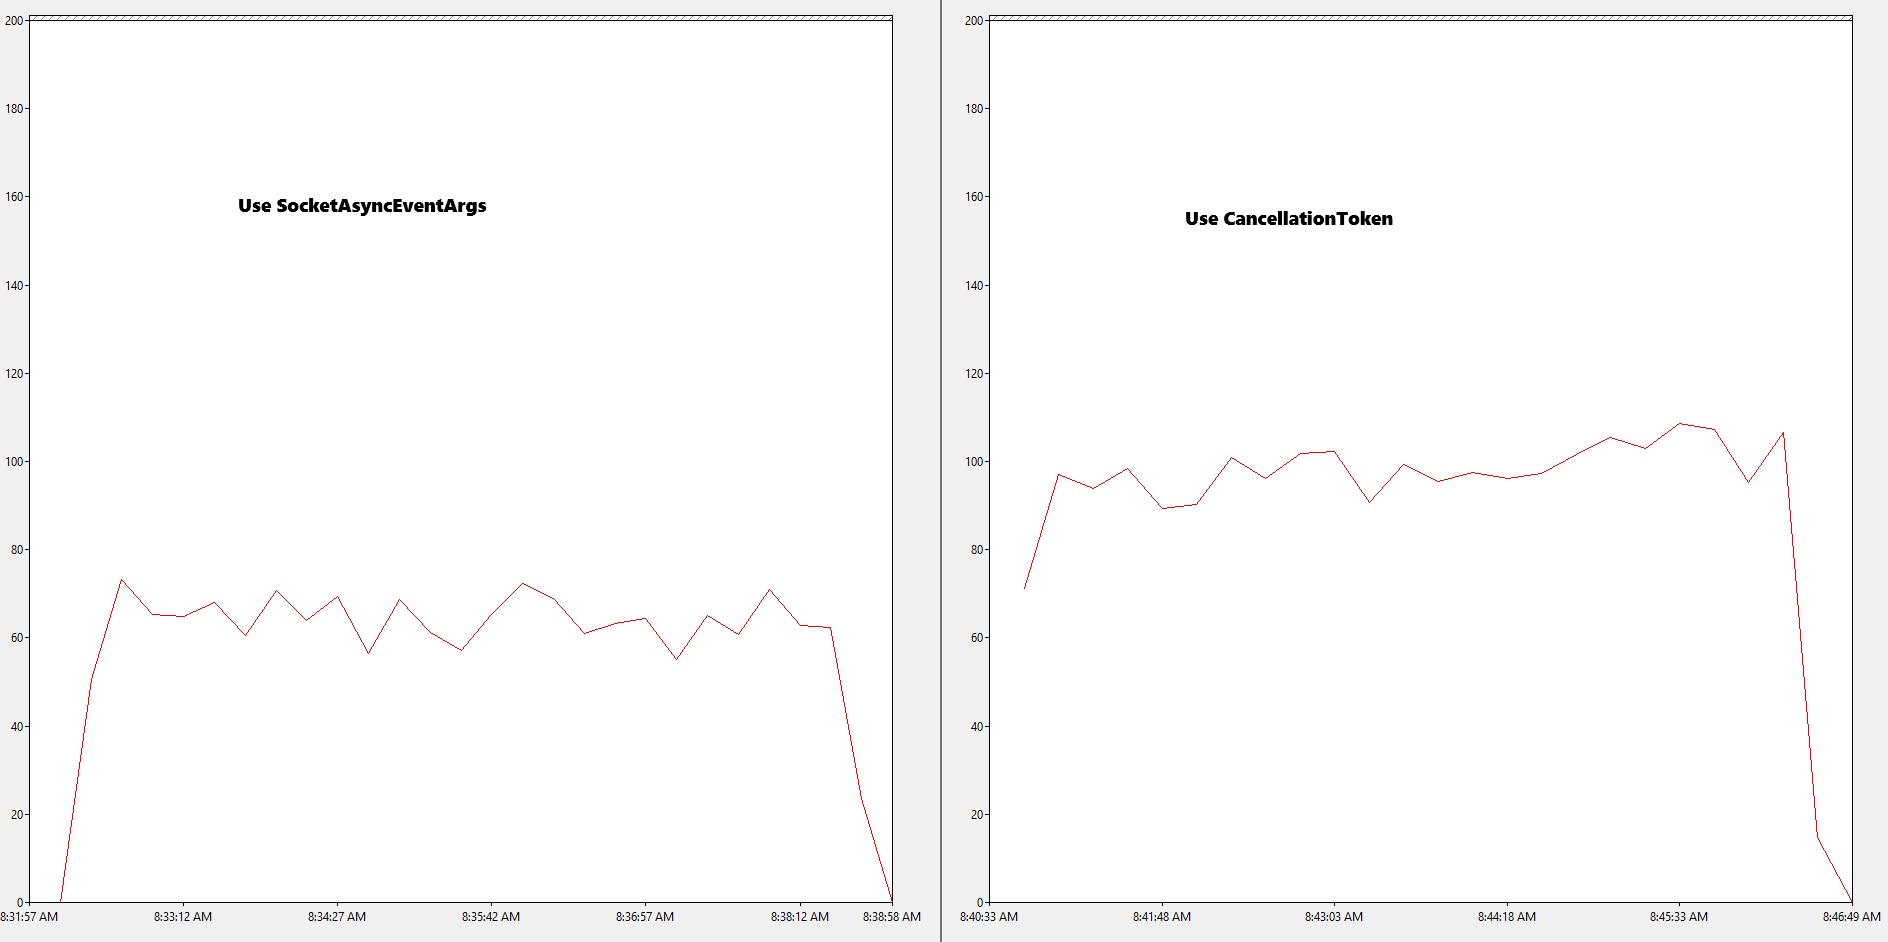
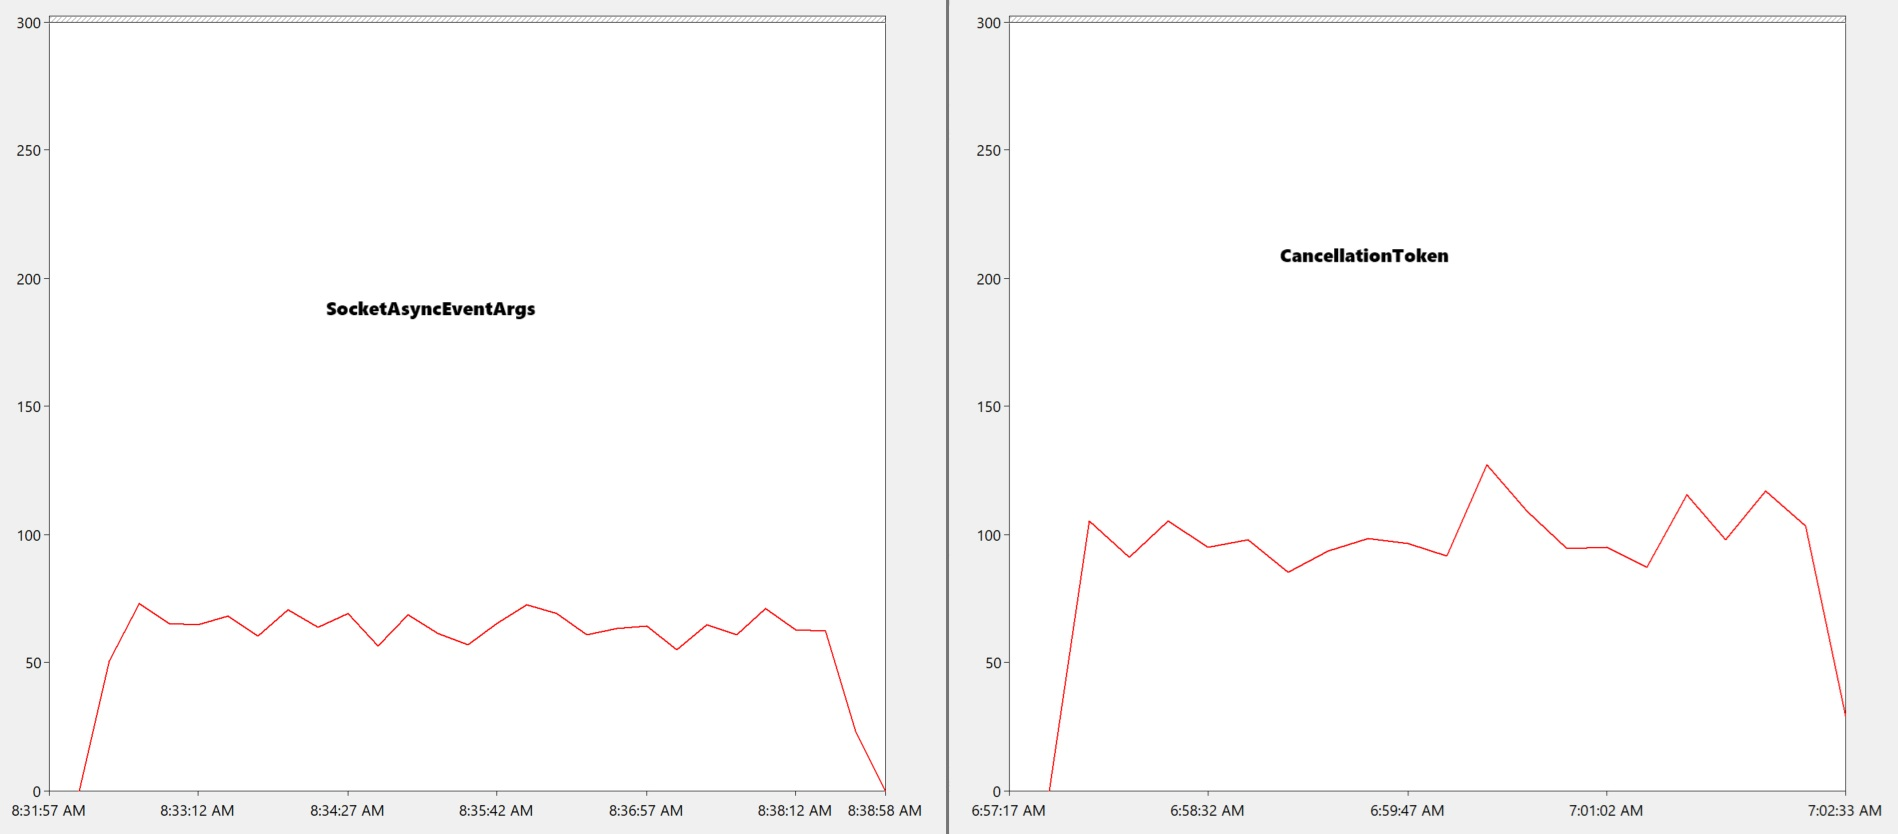
Use 2 CTS and update results

diff --git a/EchoServer/CancellationTokenSession.cs b/EchoServer/CancellationTokenSession.cs
@@ -9,7 +9,9 @@ namespace HuyHoang.DotnetSocketCancelllation;
 public sealed class CancellationTokenSession : Session
 {
     private readonly Socket socket;
-    private CancellationTokenSource cts = new CancellationTokenSource();
+    private CancellationTokenSource sendCts = new CancellationTokenSource();
+    private CancellationTokenSource recvCts = new CancellationTokenSource();
+
     // To detect redundant calls
     private bool disposedValue;
 
@@ -21,7 +23,7 @@ public sealed class CancellationTokenSession : Session
 
     protected override async ValueTask<TransportResult> RecvAsync(Socket socket, Memory<byte> buffer)
     {
-        var cts = this.GetCts();
+        var cts = this.GetRecvCts();
         try
         {
             var bytesReceived = await this.socket.ReceiveAsync(buffer, cts.Token);
@@ -35,7 +37,7 @@ public sealed class CancellationTokenSession : Session
 
     protected override async ValueTask<TransportResult> SendAsync(Socket socket, ReadOnlyMemory<byte> buffer)
     {
-        var cts = this.GetCts();
+        var cts = this.GetSendCts();
         try
         {
             var bytesSent = await this.socket.SendAsync(buffer, cts.Token);
@@ -47,17 +49,34 @@ public sealed class CancellationTokenSession : Session
         }
     }
 
-    private CancellationTokenSource GetCts()
+    private CancellationTokenSource GetSendCts()
     {
         CancellationTokenSource resultCts;
-        if (!this.cts.TryReset())
+        if (!this.sendCts.TryReset())
         {
-            this.cts.Dispose();
-            resultCts = this.cts = new CancellationTokenSource();
+            this.sendCts.Dispose();
+            resultCts = this.sendCts = new CancellationTokenSource();
         }
         else
         {
-            resultCts = this.cts;
+            resultCts = this.sendCts;
+        }
+
+        resultCts.CancelAfter(TimeSpan.FromMinutes(1));
+        return resultCts;
+    }
+
+    private CancellationTokenSource GetRecvCts()
+    {
+        CancellationTokenSource resultCts;
+        if (!this.recvCts.TryReset())
+        {
+            this.recvCts.Dispose();
+            resultCts = this.recvCts = new CancellationTokenSource();
+        }
+        else
+        {
+            resultCts = this.recvCts;
         }
 
         resultCts.CancelAfter(TimeSpan.FromMinutes(1));
@@ -70,7 +89,8 @@ public sealed class CancellationTokenSession : Session
         {
             if (disposing)
             {
-                this.cts.Dispose();
+                this.sendCts.Dispose();
+                this.recvCts.Dispose();
             }
 
             disposedValue = true;
